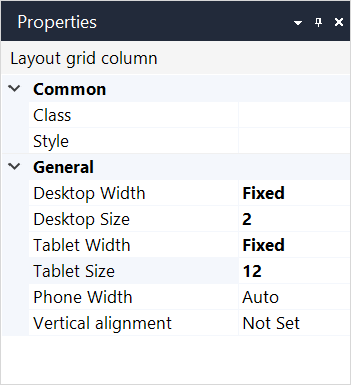
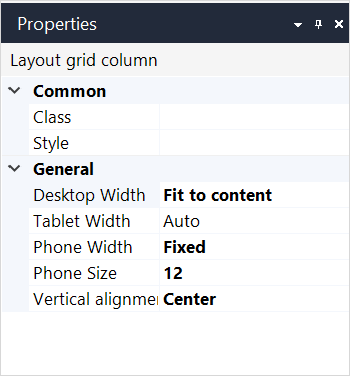
Finish and send for a review

diff --git a/content/refguide/layout-grid-rows-and-columns.md b/content/refguide/layout-grid-rows-and-columns.md
@@ -9,6 +9,12 @@ tags: ["studio pro", "layout grid", "column", "row"]
 
 Layout grid rows and columns are components of a [layout grid](). You can define the number of columns in a row, their size and alignment per a device.
 
+{{% alert type="info" %}}
+
+Row and column properties described below are not available if your project has Atlas UI version is below  2.4.0.
+
+{{% /alert %}}
+
 ## 2 Rows and Their Properties
 
 A layout grid can contain one or more rows. Each row contains [columns](#columns) and the number of columns can differ per row.
@@ -82,17 +88,29 @@ Layout grid column properties consist of the following sections:
 
 The **Desktop/Tablet/Phone Size** option is displayed only if [Desktop/Tablet/Phone width](#column-width) is set to **Manual**. width allows you to select size of the column for the corresponding devices.
 
-#### 3.2.3 Layout Examples
+The **Desktop/Tablet/Phone Size** and [Width](#column-width) properties can be used to make your layout more flexible and adaptive to different types of devices.
 
-The width and size properties described above can be used to make your layout more flexible and adaptive to different types of devices.
+For example, you have a layout grid with one row and two columns: a picture is in one column, and a text with details is in another.
 
-For example, you have a layout grid with one row and two columns: a customer's profile picture in one column, and a text with details in another.
+For the *desktop*, you might want to set the first column with a picture to **Auto-fit content** and and the second one to **Auto-fill**, this way the first column will adjust to the size of the picture, while the second one will take the rest of the row:
 
-For the desktop, set Auto-fit content and Auto-fill.
+![Layout Example, Desktop](attachments/container-widgets/layout-example-desktop.png)
 
-For tablet,
+For *tablet*, you can set both columns to **Auto-fill** and you will get two equal columns:
 
-For phone, 
+![Layout Example, Tablet](attachments/container-widgets/layout-example-tablet.png)
+
+For *phone*, it can be a good idea to place two columns one under another, setting them to **Manual** width of *12*. In this case, the second column will be automatically wrapped to another line:
+
+ ![Layout Example, Phone](attachments/container-widgets/layout-example-phone.png)
+
+On the picture below you can see the settings for two column described above:
+
+![](attachments/container-widgets/column-settings-example.png)
+
+#### 3.2.3 Align Vertically
+
+The **Align vertically** property overrides the **Align columns vertically** property on the row and sets alignment for an individual column.  
 
 ## 4 Performing Basic Actions
 
